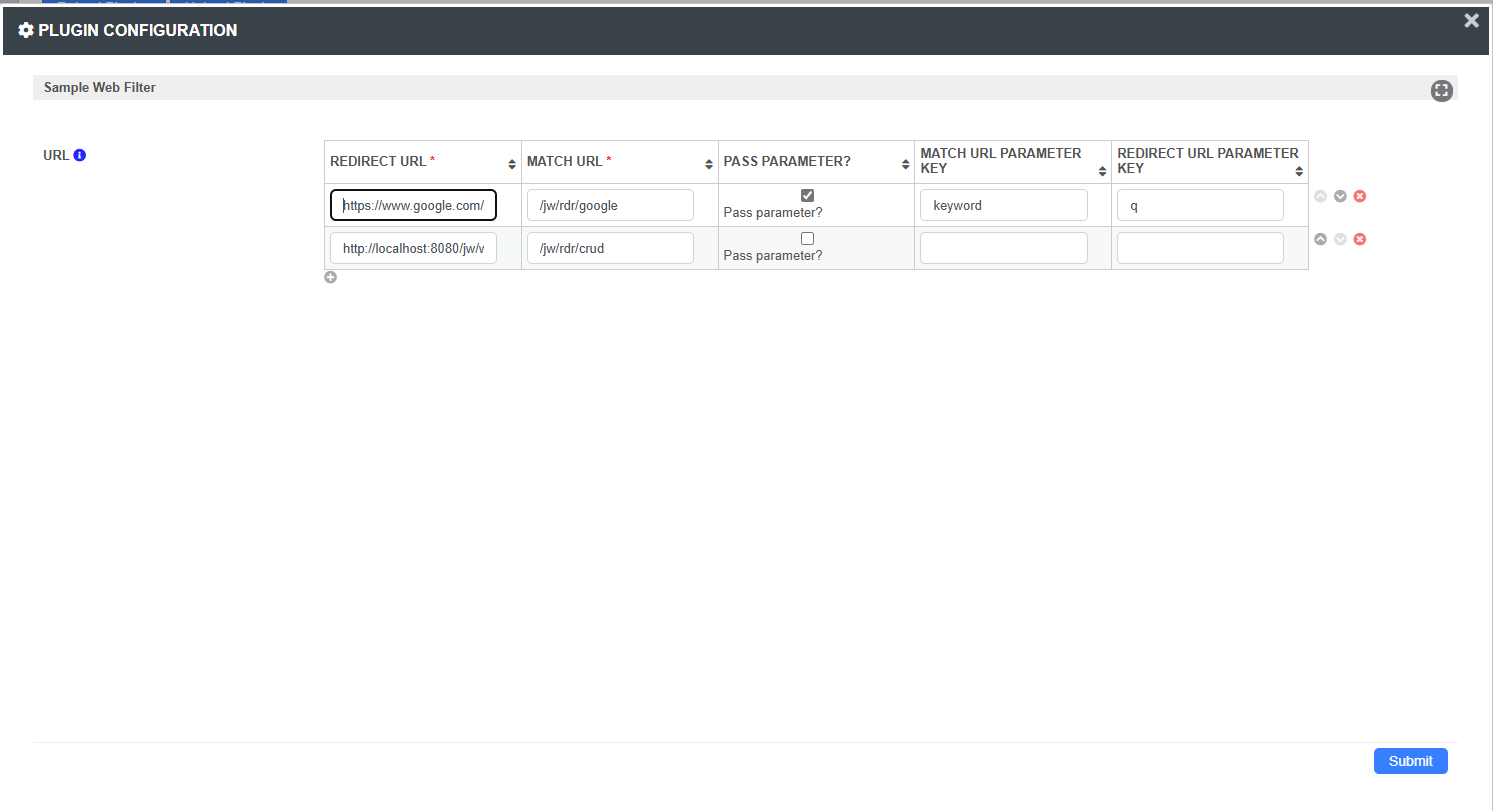
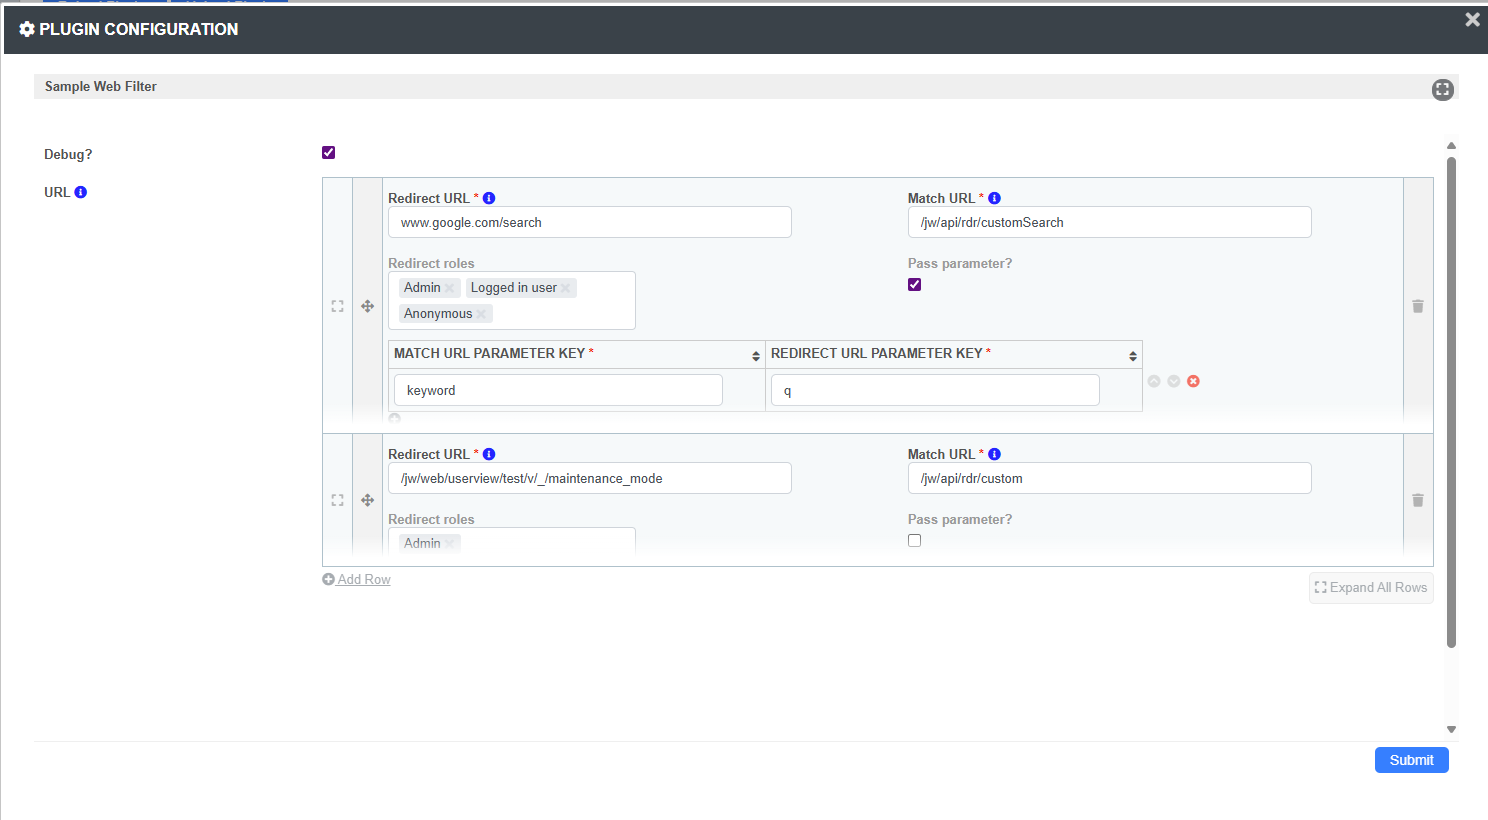
change sample config image and README content

diff --git a/README.md b/README.md
@@ -1,3 +1,4 @@
 # web-filter-82
 Web filter Plugin for Joget 8.2 version
-The redirect will be defaulted to the link /jw/rdr/*
+The redirect will be defaulted to the link /jw/api/rdr/*
+Change the getUrlPatterns() value to your preferred path
